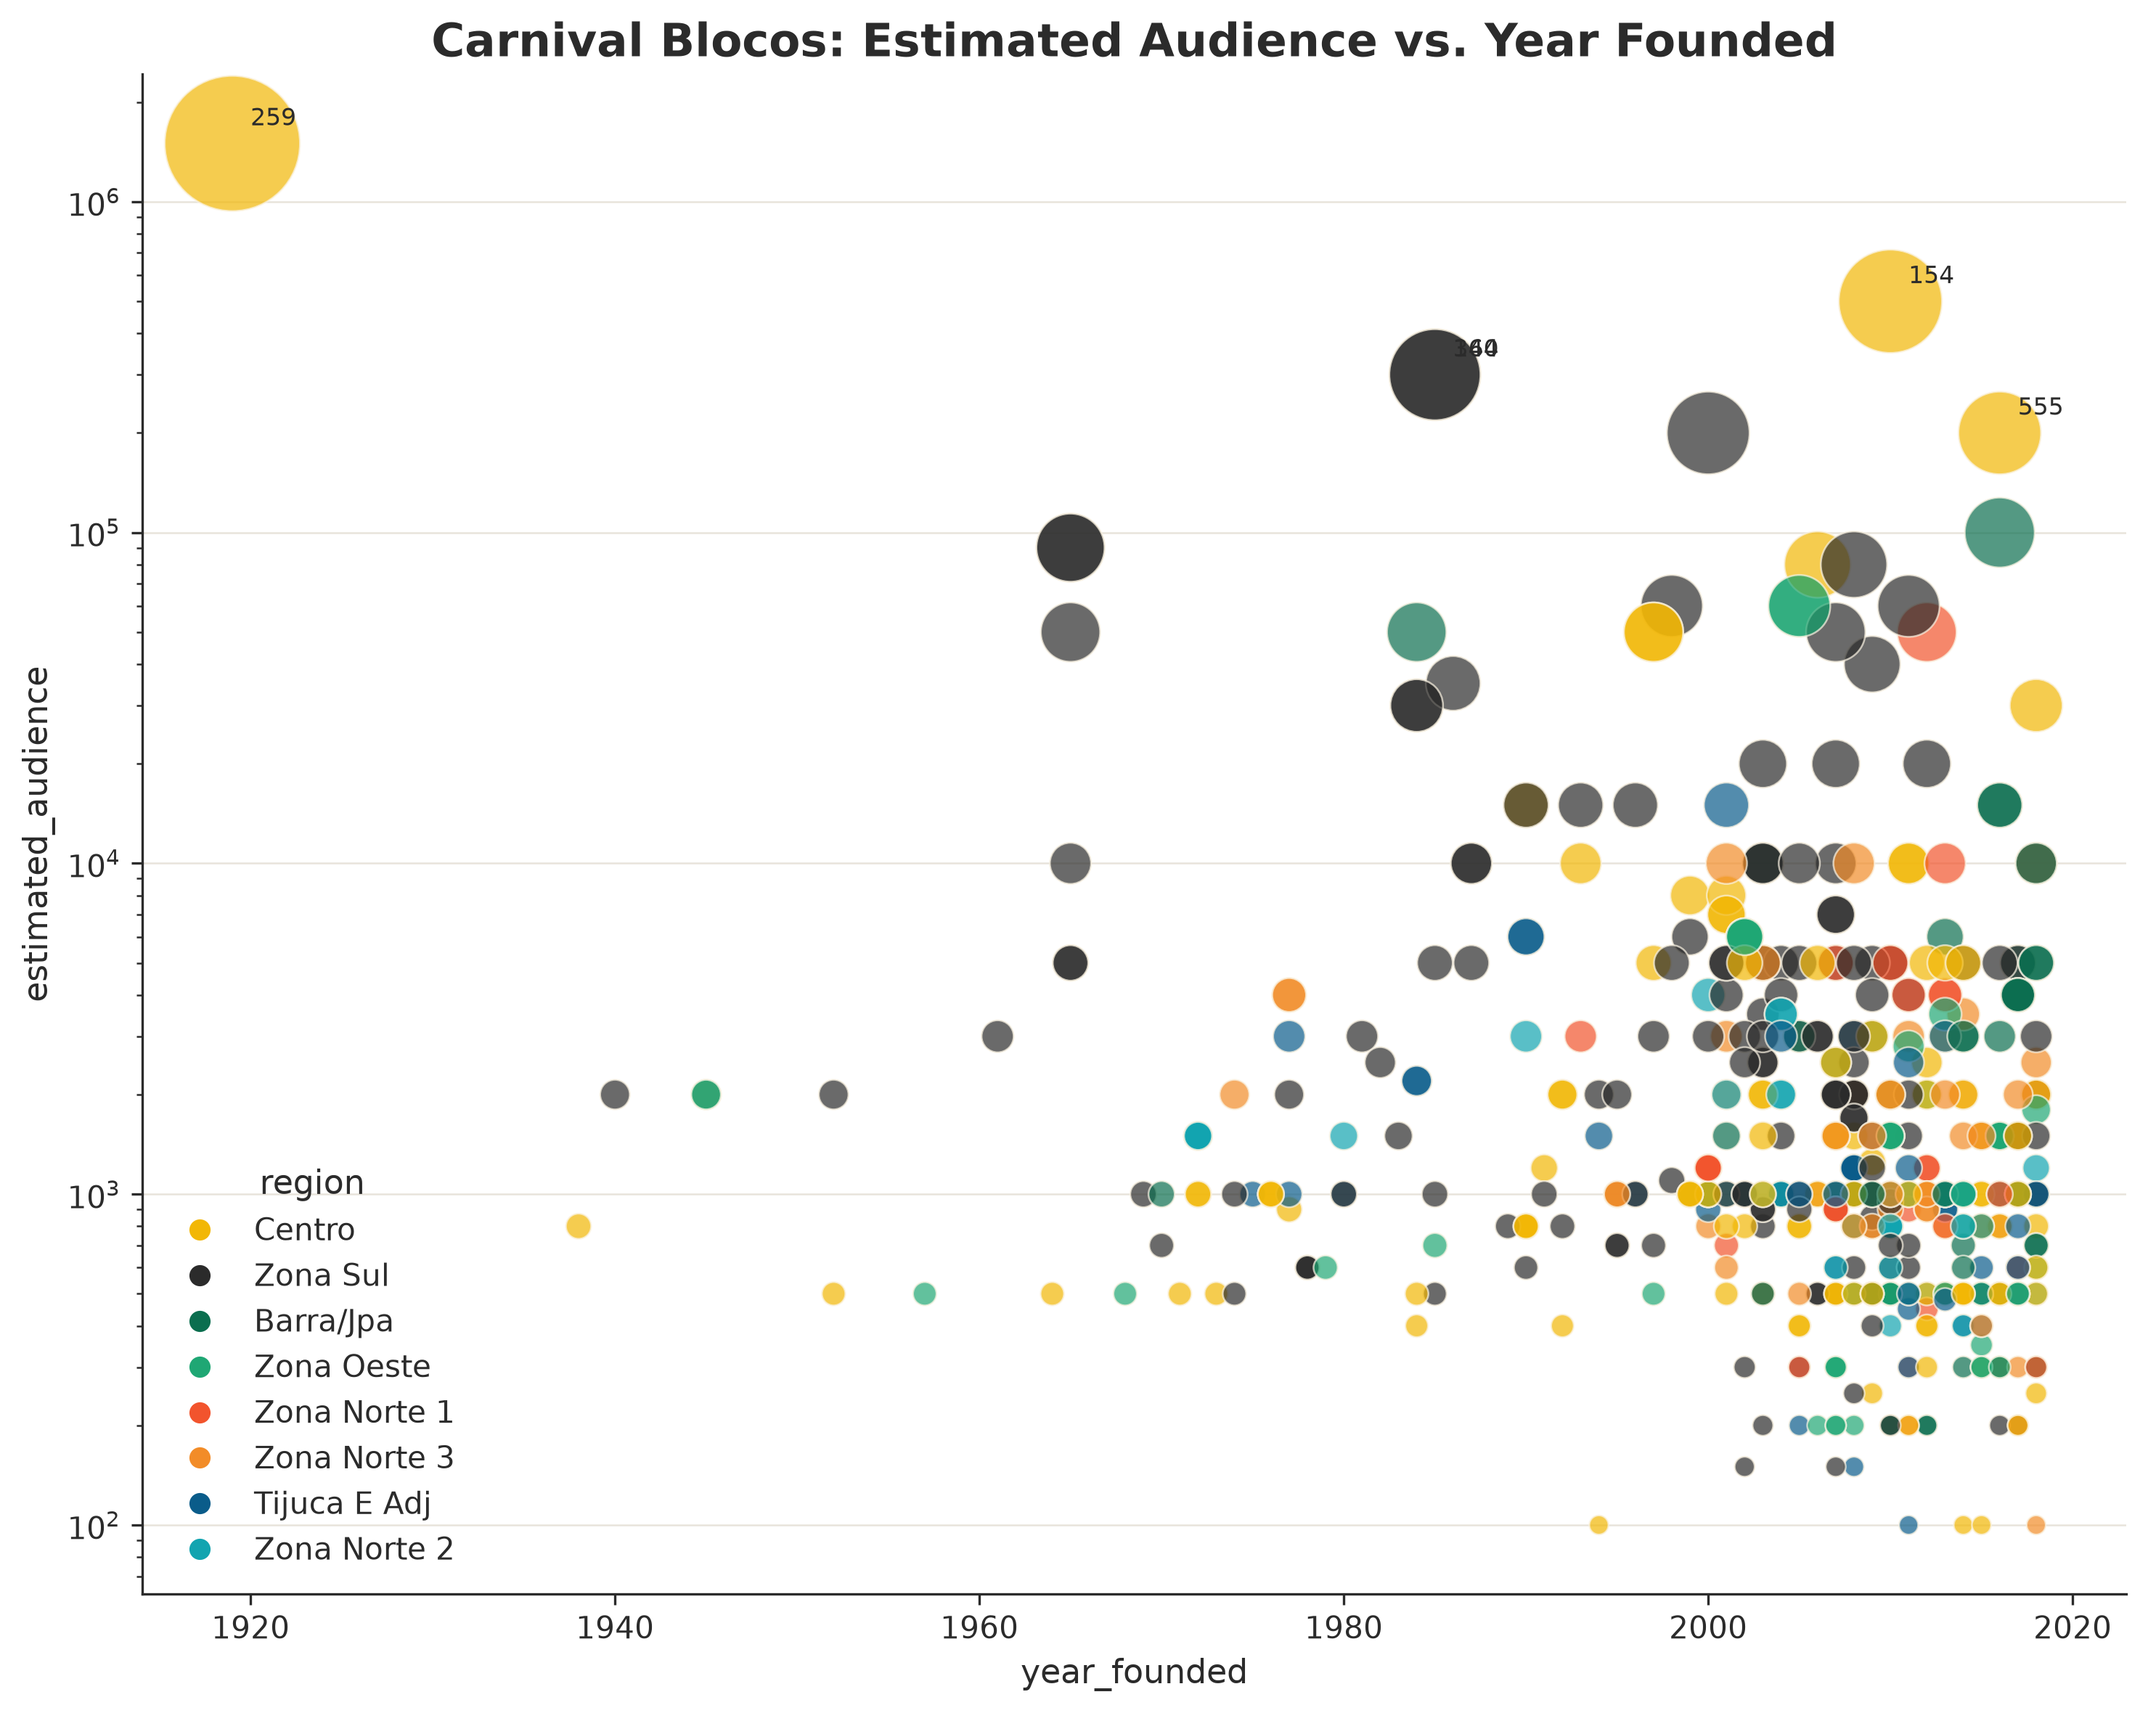
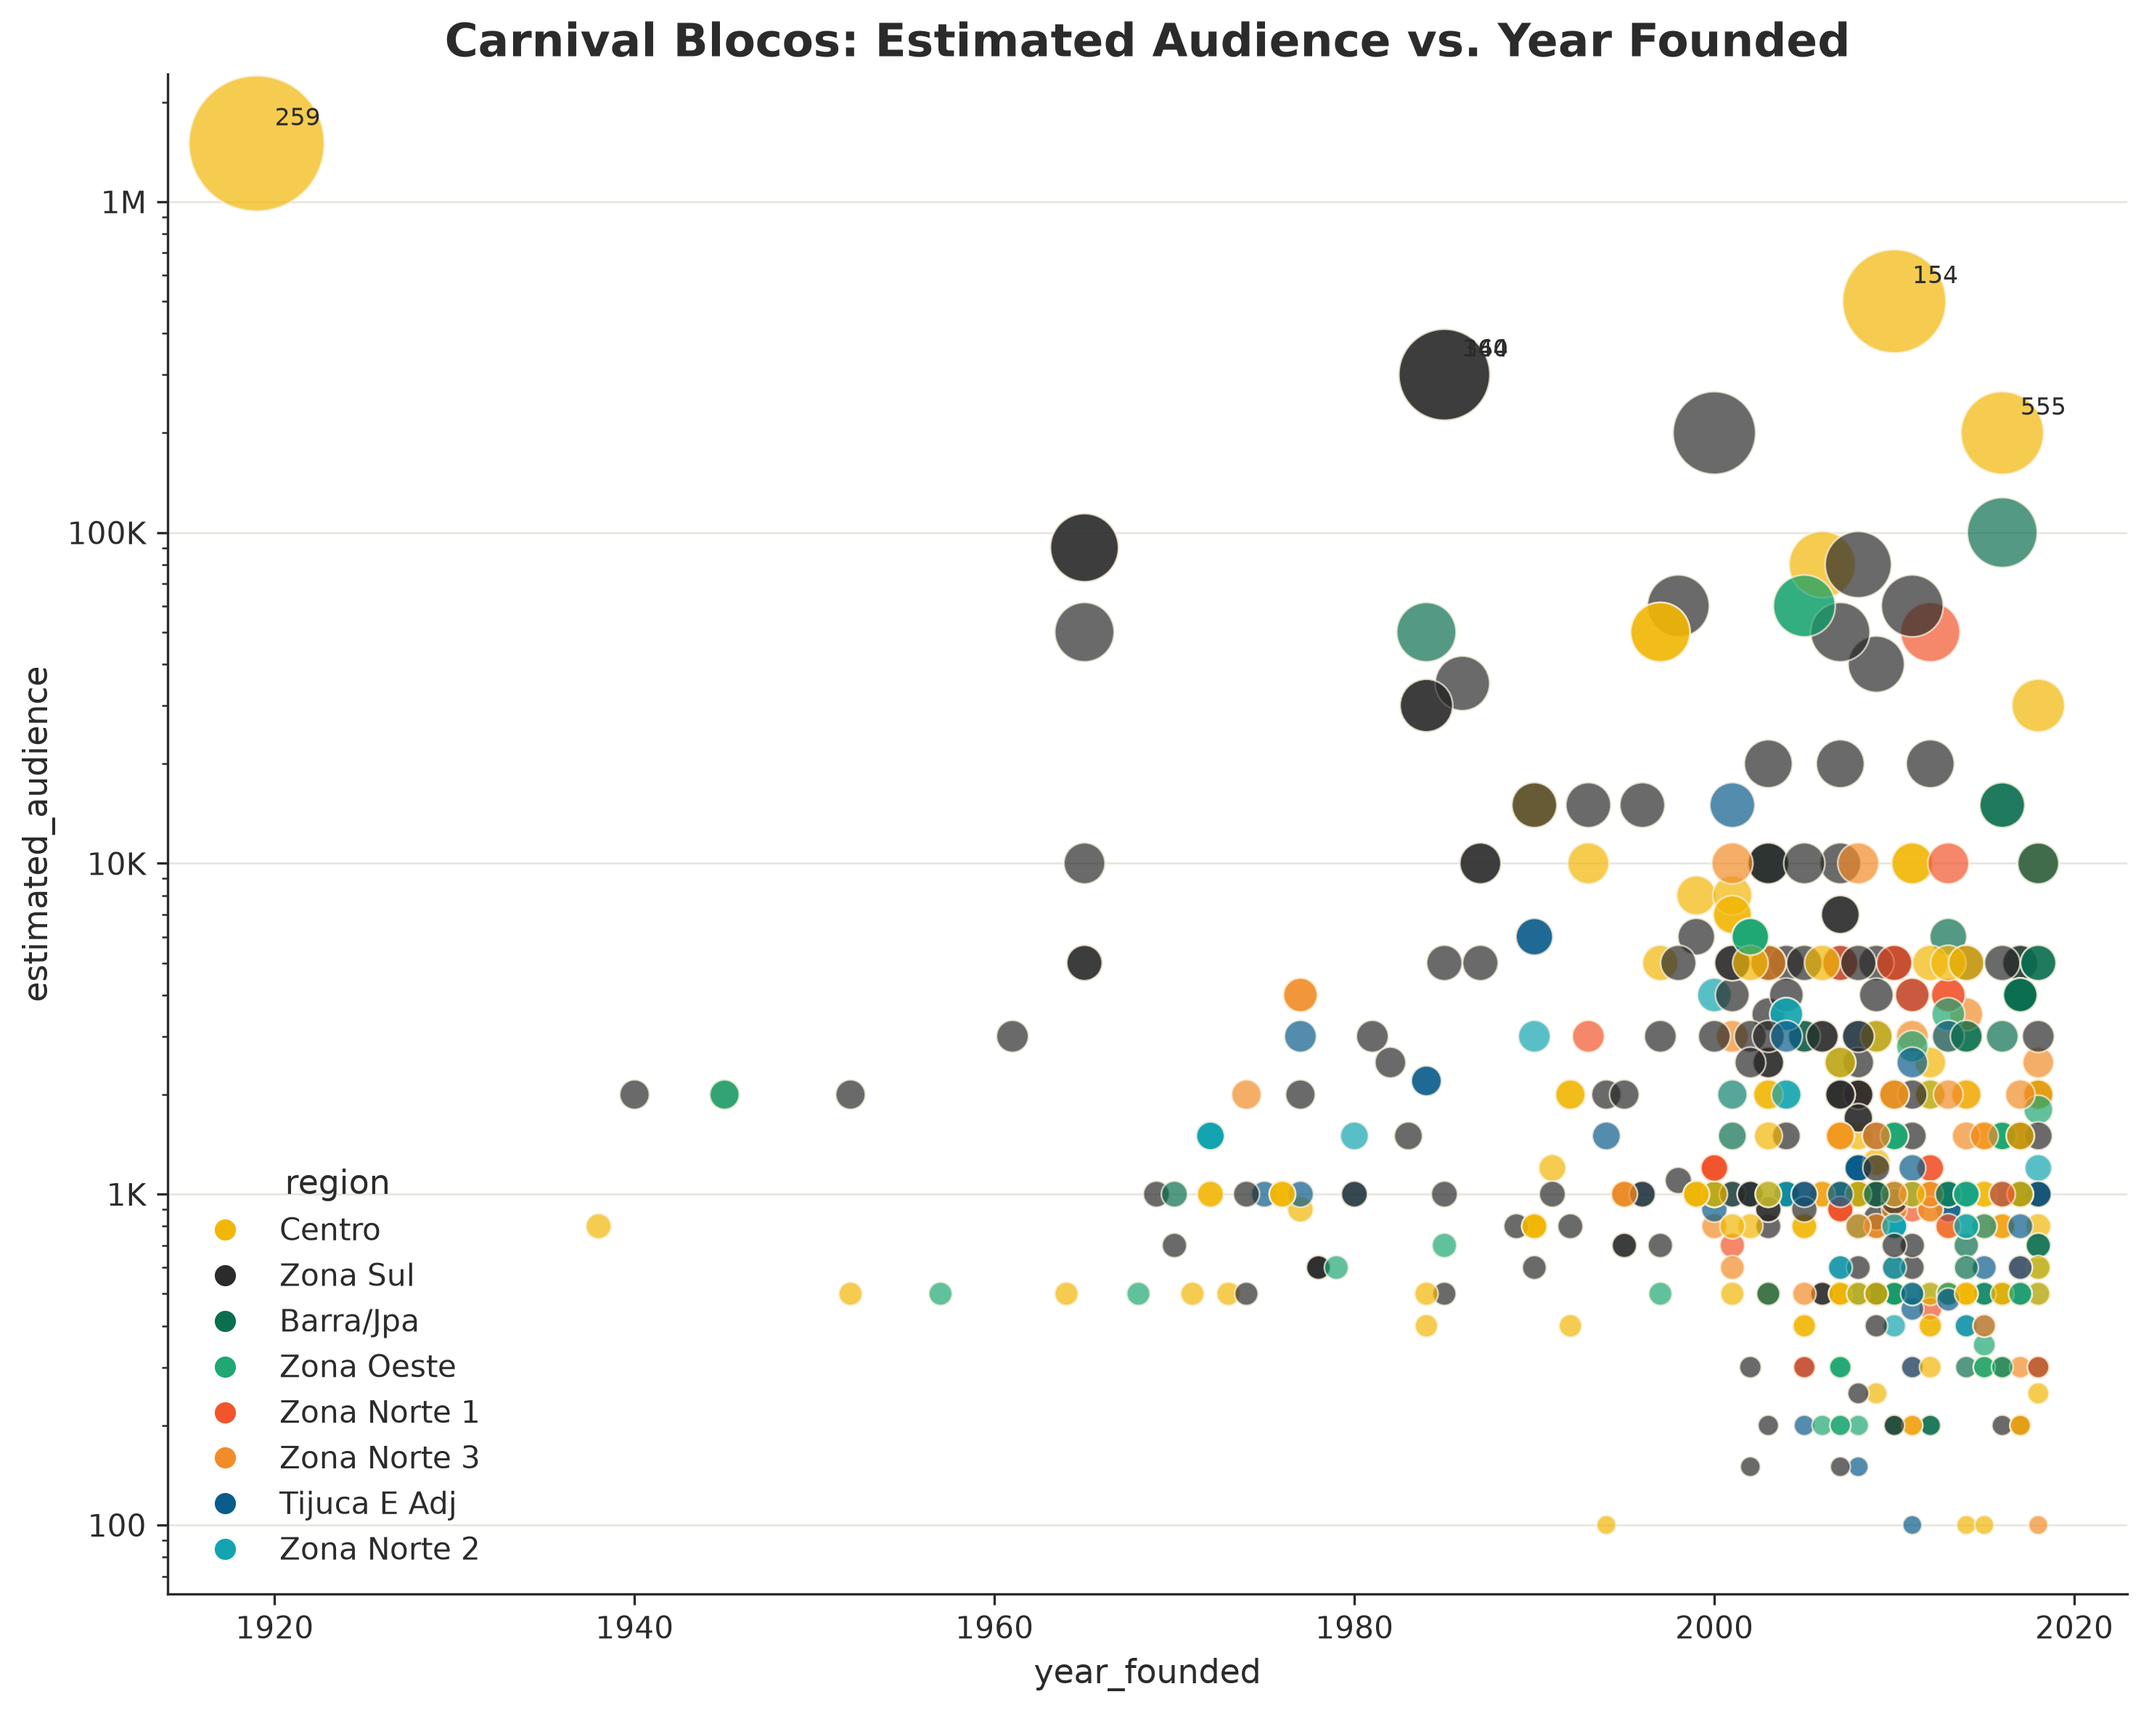
Use 12-hour clock labels and human-readable y-axis numbers
carnival_calendar(): radial time labels now show ordinary 12-hour
clock times (e.g. "4:00 PM") instead of 24-hour time.

bubble_chart(): y-axis tick labels now render as "100", "1K", "1M"
instead of scientific notation like "10^6", via a new shared
styling.use_human_readable_axis() formatter.

diff --git a/src/carnaval_viz/styling.py b/src/carnaval_viz/styling.py
@@ -12,6 +12,7 @@ import matplotlib.pyplot as plt
 import numpy as np
 import pandas as pd
 from matplotlib.lines import Line2D
+from matplotlib.ticker import FuncFormatter
 
 from . import colors
 
@@ -75,6 +76,29 @@ def carnaval_style():
     """
     with plt.rc_context(rc=_STYLE_RC):
         yield
+
+
+def _human_readable_number(value: float, _pos=None) -> str:
+    """Format a number using K/M suffixes (e.g. 1_500_000 -> "1.5M") instead
+    of raw digits or scientific notation (e.g. 1e6) -- most people don't
+    read "10^6" as quickly as "1M" at a glance."""
+    magnitude = abs(value)
+    if magnitude >= 1_000_000:
+        formatted = f"{value / 1_000_000:g}M"
+    elif magnitude >= 1_000:
+        formatted = f"{value / 1_000:g}K"
+    else:
+        formatted = f"{value:g}"
+    return formatted
+
+
+def use_human_readable_axis(axis) -> None:
+    """Format an axis's tick labels with K/M suffixes instead of raw numbers.
+
+    Args:
+        axis: A Matplotlib Axis object, e.g. `ax.yaxis` or `ax.xaxis`.
+    """
+    axis.set_major_formatter(FuncFormatter(_human_readable_number))
 
 
 def strip_spines(ax):

diff --git a/src/carnaval_viz/carnival_calendar.py b/src/carnaval_viz/carnival_calendar.py
@@ -171,7 +171,9 @@ def _weeks_before_ticks(min_date, max_date) -> tuple[list[float], list[str]]:
 
 
 def _format_hour(hour: float) -> str:
-    """Format a fractional hour (e.g. 16.5) as a clock time string ("16:30")."""
-    hours = int(hour)
-    minutes = int(round((hour - hours) * 60))
-    return f"{hours:02d}:{minutes:02d}"
+    """Format a fractional 24-hour value (e.g. 16.5) as a 12-hour clock string ("4:30 PM")."""
+    hours_24 = int(hour) % 24
+    minutes = int(round((hour - int(hour)) * 60))
+    period = "AM" if hours_24 < 12 else "PM"
+    hours_12 = hours_24 % 12 or 12
+    return f"{hours_12}:{minutes:02d} {period}"

diff --git a/src/carnaval_viz/bubble_chart.py b/src/carnaval_viz/bubble_chart.py
@@ -100,6 +100,7 @@ def bubble_chart(
 
         if yscale == "log":
             ax.set_yscale("log")
+        styling.use_human_readable_axis(ax.yaxis)
 
         if annotate_top > 0:
             top_rows = working.nlargest(annotate_top, size)

diff --git a/CHANGELOG.md b/CHANGELOG.md
@@ -15,4 +15,5 @@ Initial release.
 ### Changed
 - Replaced the original `histogram()`/`correlation()` API (from an earlier draft of this spec) with `bubble_chart()`/`circular_calendar()` per the revised project spec.
 - Following a design review, renamed `circular_calendar()` to `carnival_calendar()` and reworked it: angle now scopes to the season's own date range instead of the full year (with tick labels counting down in weeks to the final event date), and radius now encodes event time of day instead of being fixed.
-- `bubble_chart()`: switched to square-root bubble scaling and a log-scaled y-axis (both configurable) to prevent a single large outlier from crushing every other value; legend now orders categories by total size instead of alphabetically; improved default title.
+- `bubble_chart()`: switched to square-root bubble scaling and a log-scaled y-axis (both configurable) to prevent a single large outlier from crushing every other value; legend now orders categories by total size instead of alphabetically; improved default title; y-axis tick labels now show "100", "1K", "1M" instead of scientific notation like "10^6".
+- `carnival_calendar()`: radial tick labels now show ordinary 12-hour clock times (e.g. "4:00 PM") instead of 24-hour time.

diff --git a/WORKFLOW_LOG.md b/WORKFLOW_LOG.md
@@ -117,3 +117,11 @@ Also updated `CLAUDE.md` itself to reflect every one of these approved changes, 
 
 **Status:** Both charts rebuilt and re-validated (all tests passing). Not yet committed/pushed — waiting for review and go-ahead.
 
+### 2026-07-29 — Two readability tweaks
+
+You asked for two small usability fixes:
+- The calendar's radial time labels were in 24-hour format (e.g. "16:00", "21:00"); switched to ordinary 12-hour clock format ("4:00 PM", "9:00 PM") since that's how most people read a clock.
+- The bubble chart's log-scaled y-axis was showing scientific notation (e.g. "10^6"), which most people don't translate to "1 million" instantly; added a shared formatter (`styling.use_human_readable_axis()`) that renders tick labels as "100", "1K", "10K", "100K", "1M" instead.
+
+Both are small, self-contained changes -- no spec conflicts, no new bugs. Verified visually against the regenerated example images and re-ran the full test suite (33/33 passing).
+
